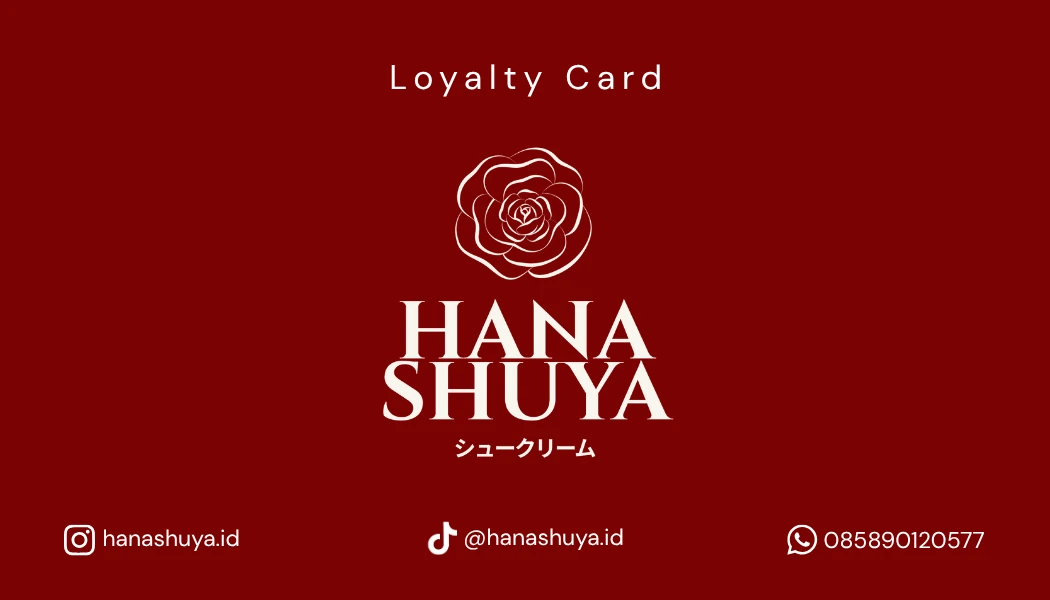
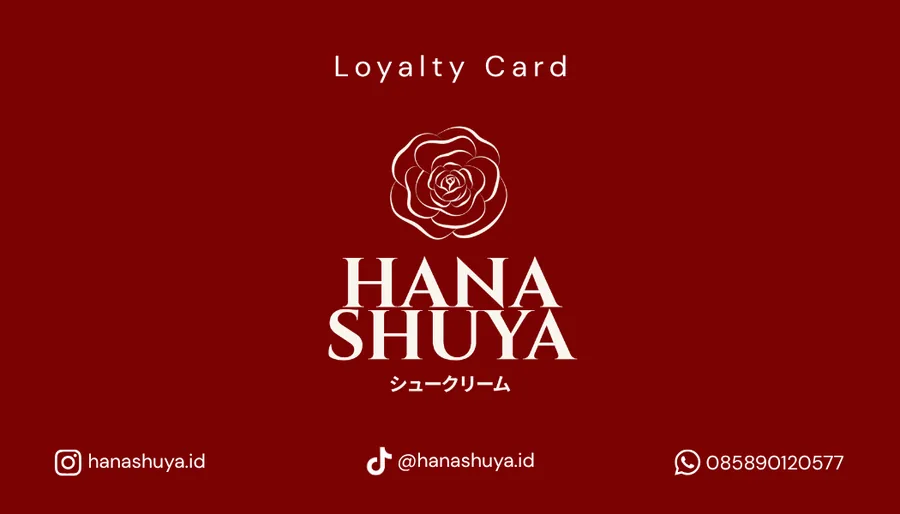
Compress images and update the daily fresh line
Re-export every photo from the originals at display size, cutting the image
folder from about 1.6 MB to 0.75 MB. Serve a smaller hero photo to phones.

diff --git a/index.html b/index.html
@@ -17,7 +17,7 @@
 <body>
 <a class="skip" href="#isi">Langsung ke isi</a>
 <header class="nav">
-  <a class="nav-logo" href="#isi"><img src="img/logotype-cream.png" width="900" height="151" alt="Hanashuya, ke awal halaman"></a>
+  <a class="nav-logo" href="#isi"><img src="img/logotype-cream.webp" width="480" height="81" alt="Hanashuya, ke awal halaman"></a>
   <nav aria-label="Utama">
     <ul>
       <li><a href="#menu">Menu</a></li>
@@ -30,7 +30,7 @@
 </header>
 <main id="isi">
   <section class="hero">
-    <img class="hero-photo" src="img/offer.webp" width="1500" height="2250" fetchpriority="high" alt="Sebuah tangan mengulurkan satu choux ke arah Kakak">
+    <img class="hero-photo" src="img/offer.webp" srcset="img/offer-720.webp 720w, img/offer.webp 1320w" sizes="(max-width: 860px) 100vw, 880px" width="1320" height="1980" fetchpriority="high" alt="Sebuah tangan mengulurkan satu choux ke arah Kakak">
     <div class="container hero-copy">
       <h1><span>Boleh, Kak,</span> <span>cobain dulu.</span></h1>
       <div class="hero-side">
@@ -52,7 +52,7 @@
       </article>
       <article class="chapter statement">
         <h3>Nggak ada choux sisa kemarin.</h3>
-        <p>Setiap hari kami buat yang baru. Kalau hari ini sudah habis, tunggu besok ya, Kak.</p>
+        <p>Setiap hari kami buat yang baru. Kalau hari ini sudah habis, besok kami siap membuat yang fresh untuk Kakak.</p>
       </article>
       <article class="chapter">
         <img src="img/piping.webp" width="1300" height="1950" loading="lazy" alt="Staf Hanashuya mengisi krim ke dalam choux di booth">
@@ -147,13 +147,13 @@
         <p class="small">1 stamp untuk setiap kelipatan Rp50.000, hanya di kartu fisik. Hadiah ulang tahun untuk member yang terdaftar paling lambat 30 hari sebelumnya, berlaku 7 hari sebelum sampai 7 hari sesudahnya. Promo tidak bisa digabung.</p>
       </div>
       <figure class="card-mock">
-        <img class="card-front" src="img/card-front.webp" width="1050" height="600" loading="lazy" alt="">
+        <img class="card-front" src="img/card-front.webp" width="900" height="514" loading="lazy" alt="">
         <div class="card-back">
-          <img src="img/card-back.webp" width="1050" height="600" loading="lazy" alt="Kartu member Hanashuya dengan empat stamp mawar. Slot ke-3 bertuliskan diskon 10%, slot ke-7 diskon 20%, dan slot ke-10 produk gratis.">
-          <img class="stamp" style="--i:0;left:18.9%;top:44.2%;rotate:-12deg" src="img/rose-stamp.png" width="240" height="233" alt="">
-          <img class="stamp" style="--i:1;left:33.9%;top:36.0%;rotate:8deg" src="img/rose-stamp.png" width="240" height="233" alt="">
-          <img class="stamp" style="--i:2;left:48.9%;top:43.8%;rotate:-5deg" src="img/rose-stamp.png" width="240" height="233" alt="">
-          <img class="stamp" style="--i:3;left:64.2%;top:36.3%;rotate:14deg" src="img/rose-stamp.png" width="240" height="233" alt="">
+          <img src="img/card-back.webp" width="900" height="514" loading="lazy" alt="Kartu member Hanashuya dengan empat stamp mawar. Slot ke-3 bertuliskan diskon 10%, slot ke-7 diskon 20%, dan slot ke-10 produk gratis.">
+          <img class="stamp" style="--i:0;left:18.9%;top:44.2%;rotate:-12deg" src="img/rose-stamp.webp" width="160" height="155" alt="">
+          <img class="stamp" style="--i:1;left:33.9%;top:36.0%;rotate:8deg" src="img/rose-stamp.webp" width="160" height="155" alt="">
+          <img class="stamp" style="--i:2;left:48.9%;top:43.8%;rotate:-5deg" src="img/rose-stamp.webp" width="160" height="155" alt="">
+          <img class="stamp" style="--i:3;left:64.2%;top:36.3%;rotate:14deg" src="img/rose-stamp.webp" width="160" height="155" alt="">
         </div>
       </figure>
     </div>
@@ -204,7 +204,7 @@
 </main>
 <footer class="foot">
   <div class="container foot-grid">
-    <img src="img/logotype-cream.png" width="900" height="151" loading="lazy" alt="Hanashuya">
+    <img src="img/logotype-cream.webp" width="480" height="81" loading="lazy" alt="Hanashuya">
     <ul>
       <li><a class="link" href="https://www.google.com/maps/search/?api=1&amp;query=Hanashuya+Papaya+Fresh+Gallery+Jl.+Sukaasih+No.+1+Bandung">Google Maps</a></li>
       <li><a class="link" href="kebijakan-privasi.html">Kebijakan privasi</a></li>

diff --git a/kebijakan-privasi.html b/kebijakan-privasi.html
@@ -10,7 +10,7 @@
 </head>
 <body>
 <header class="nav">
-  <a class="nav-logo" href="index.html"><img src="img/logotype-cream.png" width="900" height="151" alt="Hanashuya, kembali ke beranda"></a>
+  <a class="nav-logo" href="index.html"><img src="img/logotype-cream.webp" width="480" height="81" alt="Hanashuya, kembali ke beranda"></a>
 </header>
 <main class="doc">
   <h1>Kebijakan privasi</h1>
